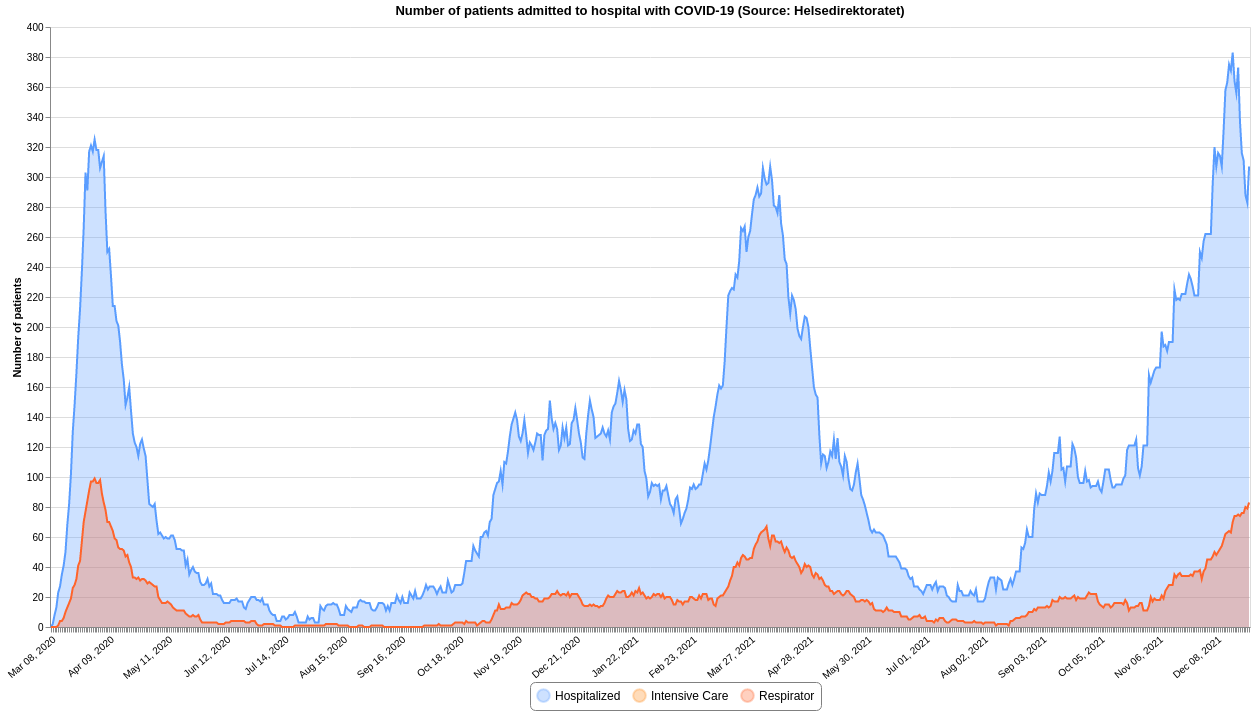
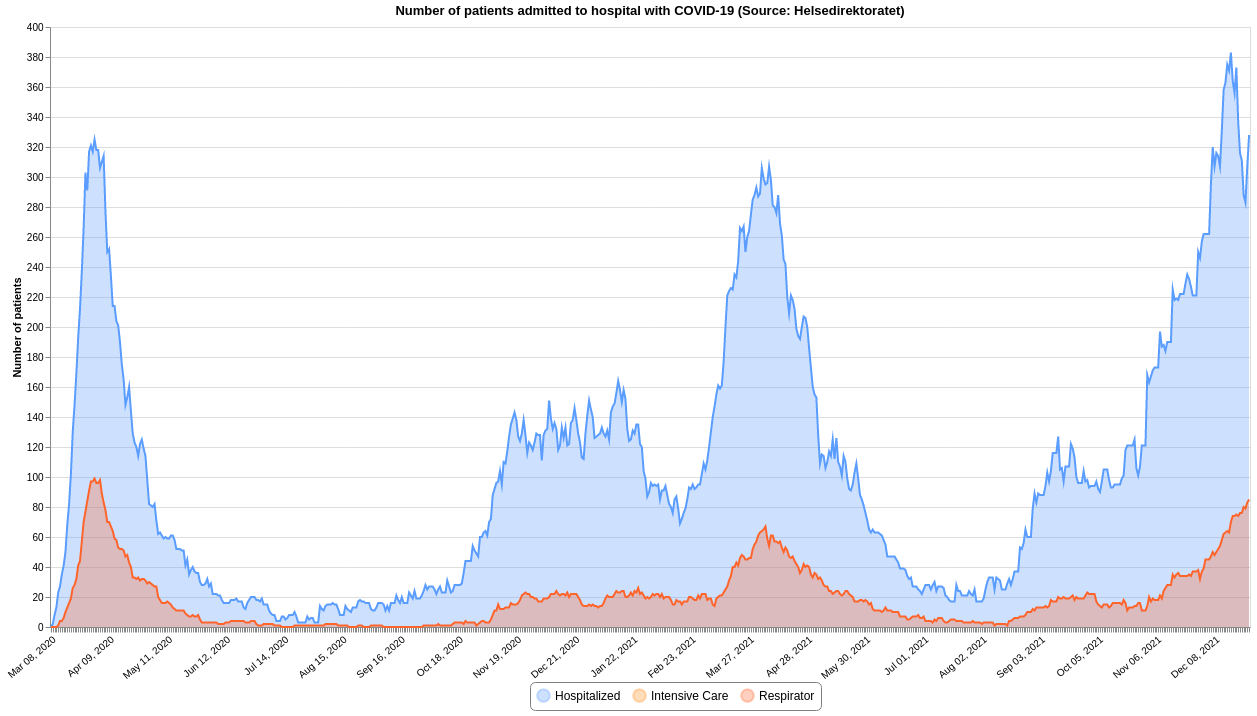
Updated 2021-12-27 12:21

diff --git a/README.md b/README.md
@@ -12,7 +12,7 @@ This repository contains datasets of daily time-series data related to COVID-19 
 | :--- | :--- | :--- | :--- | :--- |
 |[Confirmed](#confirmedcsv)|FHI / MSIS|2021-12-27 00:21:37+01:00|[<center>csv</center>](https://raw.githubusercontent.com/frefrik/covid19norge-data/main/data/confirmed.csv)|[<center>preview</center>](data/confirmed.csv)|
 |[Dead](#deadcsv)|FHI|2021-12-24 13:20:54+01:00|[<center>csv</center>](https://raw.githubusercontent.com/frefrik/covid19norge-data/main/data/dead.csv)|[<center>preview</center>](data/dead.csv)|
-|[Hospitalized](#hospitalizedcsv)|Helsedirektoratet|2021-12-26 12:20:43+01:00|[<center>csv</center>](https://raw.githubusercontent.com/frefrik/covid19norge-data/main/data/hospitalized.csv)|[<center>preview</center>](data/hospitalized.csv)|
+|[Hospitalized](#hospitalizedcsv)|Helsedirektoratet|2021-12-27 12:20:49+01:00|[<center>csv</center>](https://raw.githubusercontent.com/frefrik/covid19norge-data/main/data/hospitalized.csv)|[<center>preview</center>](data/hospitalized.csv)|
 |[Tested](#testedcsv)|FHI|2021-12-24 13:10:50+01:00|[<center>csv</center>](https://raw.githubusercontent.com/frefrik/covid19norge-data/main/data/tested.csv)|[<center>preview</center>](data/tested.csv)|
 |[Tested Lab](#tested_labcsv)|FHI|2021-12-24 13:20:49+01:00|[<center>csv</center>](https://raw.githubusercontent.com/frefrik/covid19norge-data/main/data/tested_lab.csv)|[<center>preview</center>](data/tested_lab.csv)|
 |[Transport](#transportcsv)|FHI|2021-09-24 23:10:46+02:00|[<center>csv</center>](https://raw.githubusercontent.com/frefrik/covid19norge-data/main/data/transport.csv)|[<center>preview</center>](data/transport.csv)|
